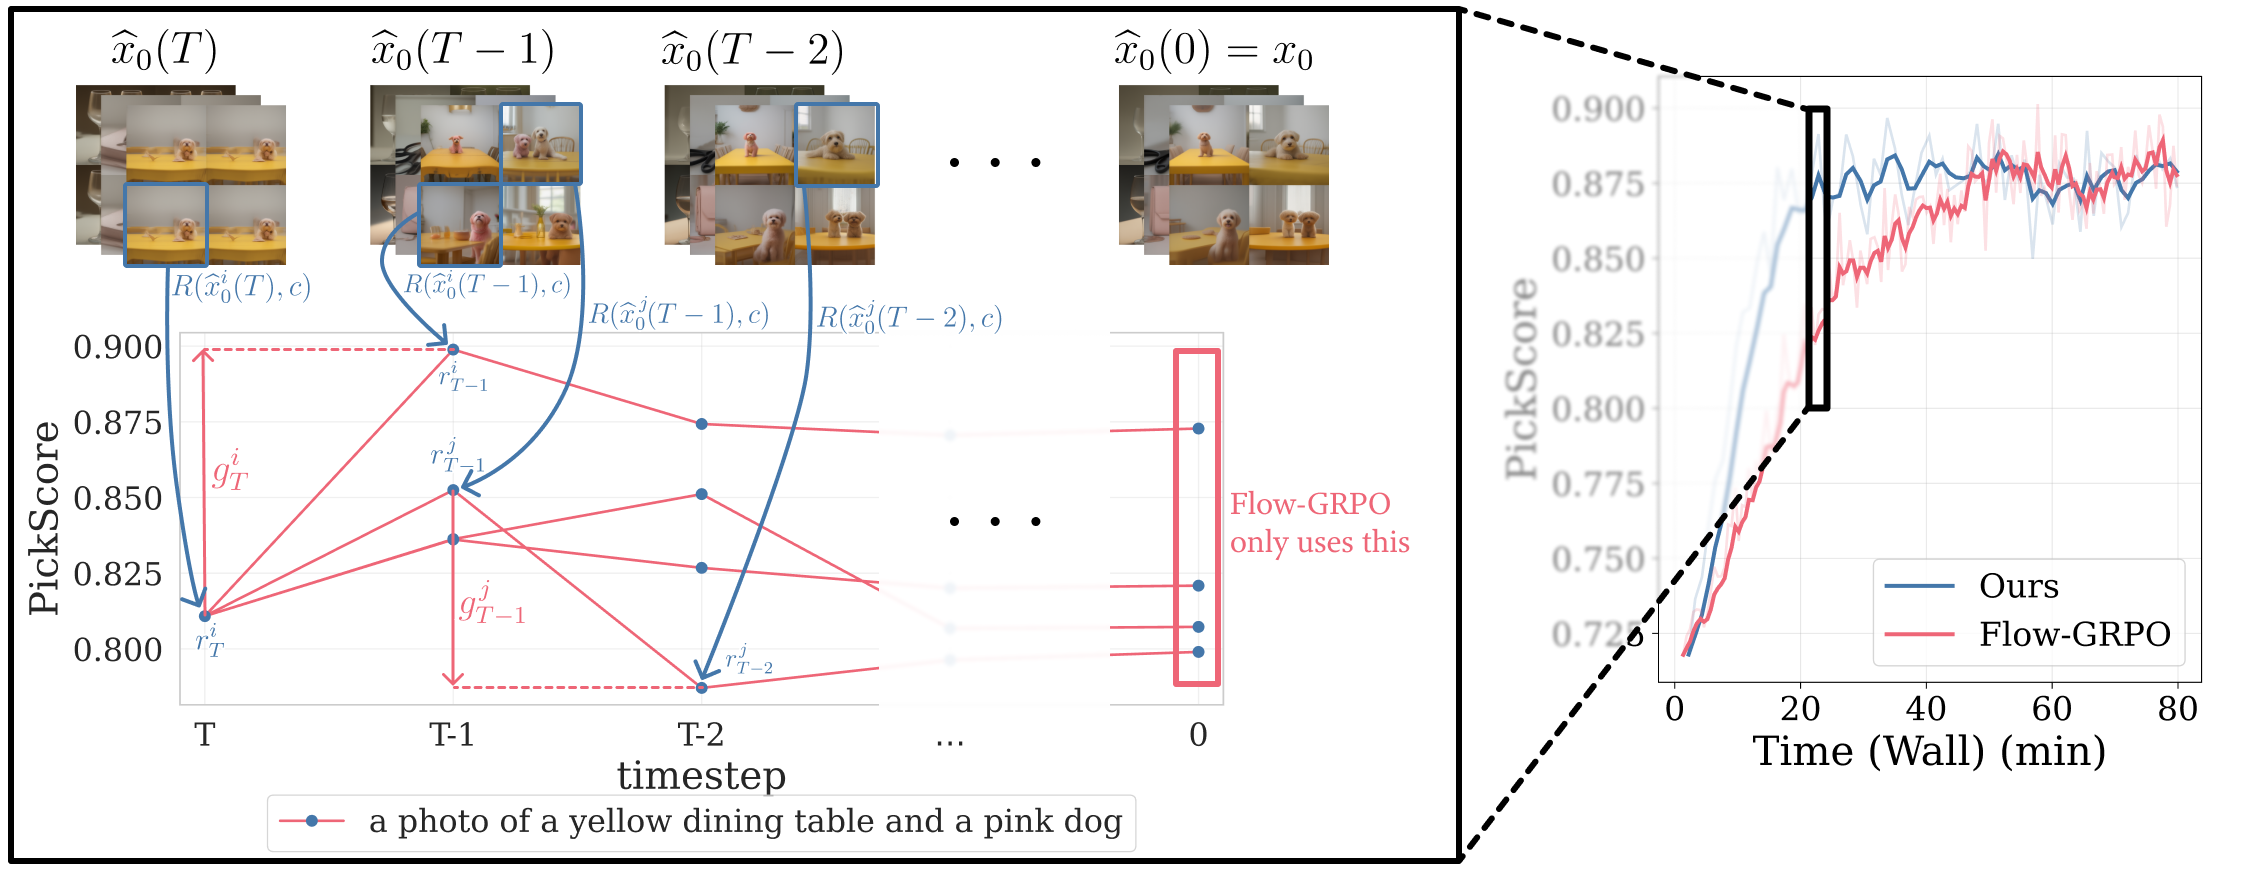
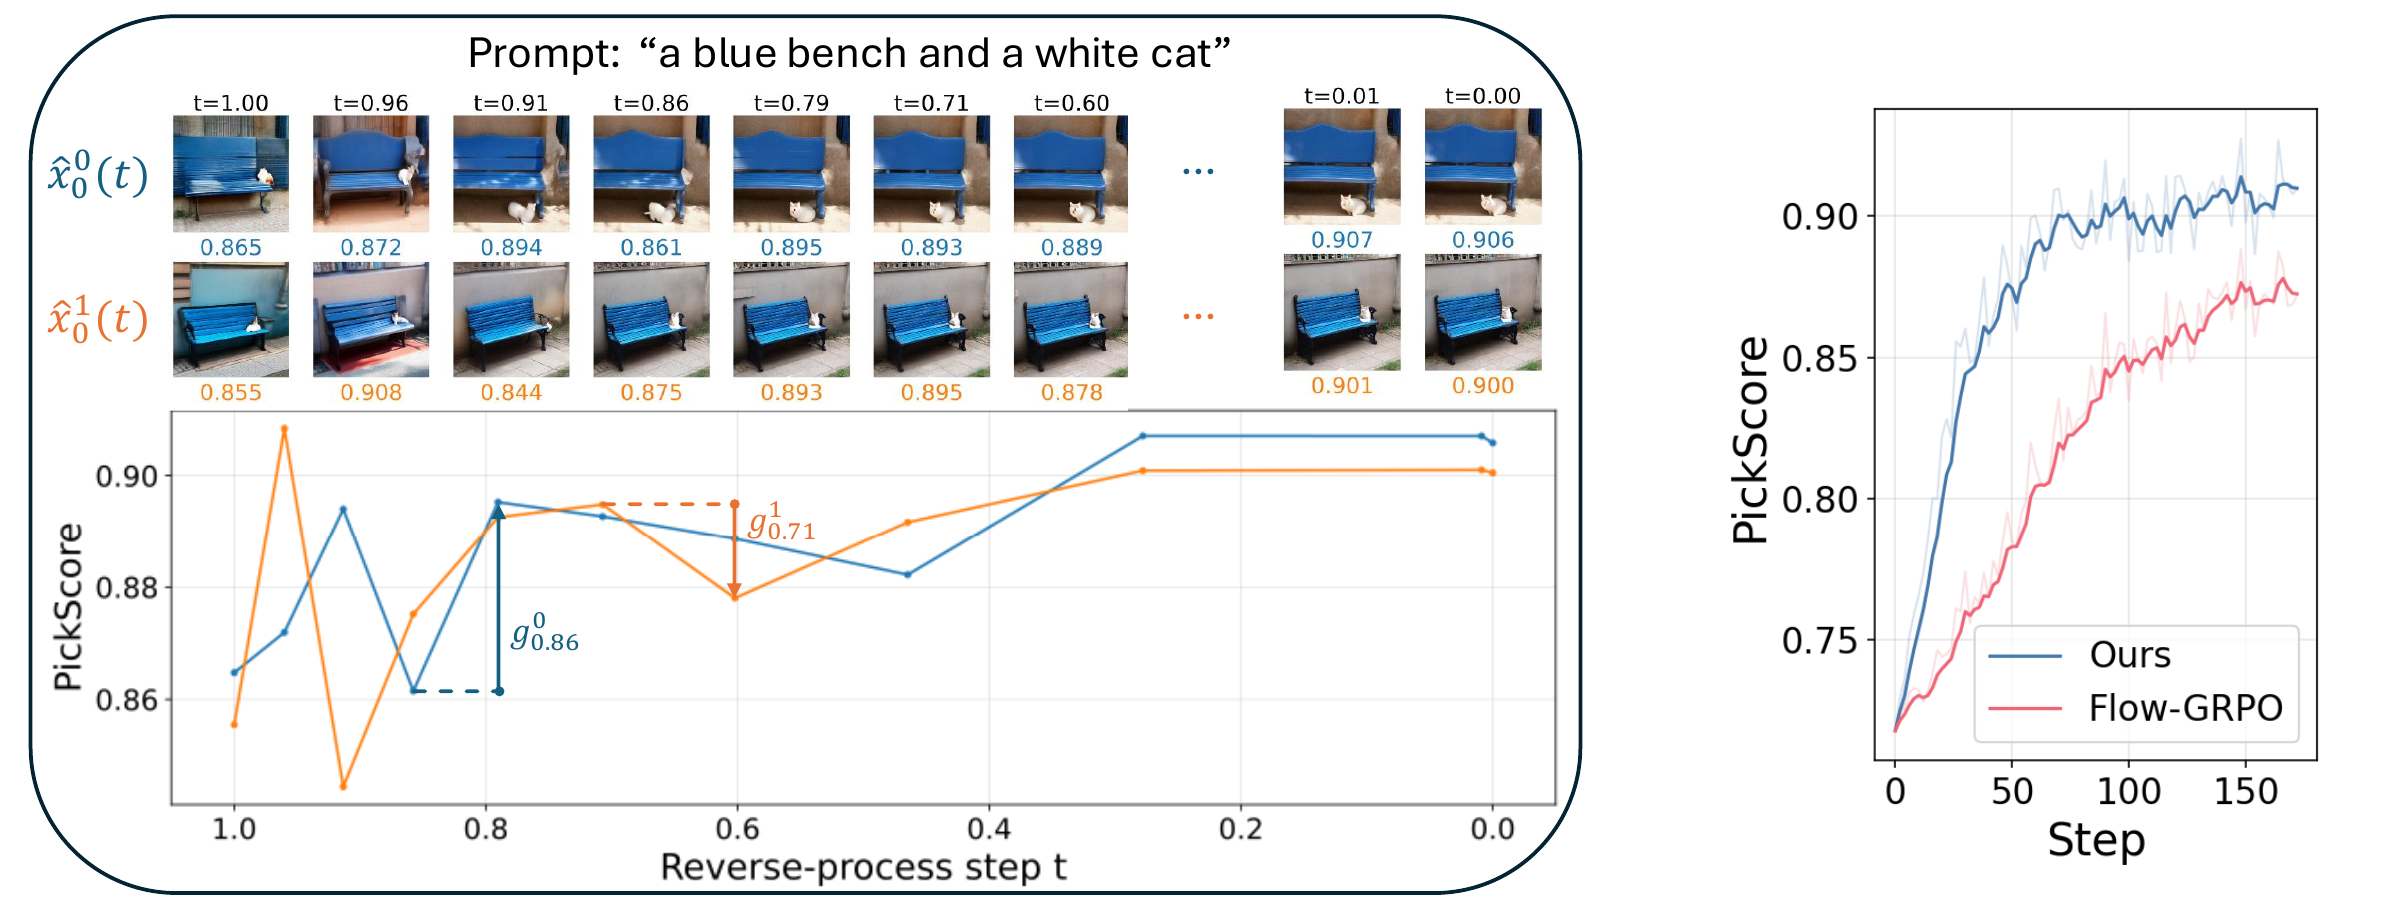
Refine stepwise Flow-GRPO blog figures

diff --git a/website/content/2026/stepwise-flow-grpo.md b/website/content/2026/stepwise-flow-grpo.md
@@ -20,13 +20,13 @@ The current state of the art, [Flow-GRPO](https://arxiv.org/abs/2505.05470), sid
 
 This blog post describes our recent work, [_Stepwise Credit Assignment for GRPO on Flow Matching Models_](https://stepwiseflowgrpo.com), which proposes a fix.
 
-## TL; DR
+## TL;DR
 
 - **Problem.** Flow-GRPO assigns the same advantage to every denoising step in a trajectory, ignoring that early steps determine composition while late steps refine details. A trajectory with bad early decisions that get corrected later is reinforced just as strongly as one with good decisions throughout.
 - **Stepwise rewards via Tweedie.** We score every denoising step by applying the reward model to a few-step Tweedie estimate \\(\hat{x}\_{0}(t) = \mathbb{E}[x\_{0} \mid x\_{t}]\\) of the clean image. This is essentially free since \\(\hat{x}\_{0}(t)\\) reuses the predicted noise that the flow model already computes at every step.
 - **Stepwise gains, not raw rewards.** We optimize the per-step gain \\(g\_{t} = r\_{t-1} - r\_{t}\\). The gains telescope to the total reward improvement, so we get fine-grained credit assignment without changing the global objective.
 - **Improved SDE.** Flow-GRPO's SDE inadvertently injects extra noise at every step, leaving final samples noisy and degrading the reward signal. We replace it with a DDIM-inspired alternative that does not add unintended noise and recovers the flow ODE in the appropriate limits.
-- **Results.** **Stepwise-Flow-GRPO has better sample efficiency than Flow-GRPO**, in both training iterations and wall-clock time, across three reward models (PickScore, ImageReward, UnifiedReward) on two datasets. The improved SDE accelerates *both* methods, and combining the two changes gives the best results overall. Stepwise-Flow-GRPO also trains stably where Flow-GRPO diverges, including on the 7B UnifiedReward VLM and on OCR text rendering.
+- **Results.** **Stepwise-Flow-GRPO has better sample efficiency than Flow-GRPO**, in both training iterations and wall-clock time, across three reward models (PickScore, ImageReward, UnifiedReward) on two prompt sets. The improved SDE accelerates *both* methods, and combining the two changes gives the best results overall. Stepwise-Flow-GRPO also trains stably where Flow-GRPO diverges, including on the 7B UnifiedReward VLM and on OCR text rendering.
 
 ![Two trajectories from the same prompt have similar final rewards but very different intermediate behavior. Trajectory 0 dips at t=0.86 before recovering, and trajectory 1 drops sharply at t=0.71. Uniform credit assignment treats them identically.](./figure1-motivation.png)
 
@@ -52,7 +52,7 @@ To generate an image, we start from pure noise \\(x\_{1} \sim \mathcal{N}(0, I)\
 
 The deterministic ODE works fine for inference, but it is not suitable for reinforcement learning. RL needs to explore: from the same prompt and same initial noise, we need the model to produce *different* trajectories that we can reward differently and compare against each other. A deterministic process produces one trajectory per starting point, so there is nothing to compare.
 
-Following [Flow-GRPO](https://arxiv.org/abs/2505.05470), we replace the deterministic ODE with a stochastic differential equation (SDE) that injects a small amount of noise at each step. The SDE is carefully constructed so that, at every time \\(t\\), its distribution over \\(x\_{t}\\) matches the original ODE. This *marginal-preserving* property is important: it means that optimizing the SDE policy also improves the deterministic ODE we use at inference. After discretization, each denoising step becomes a draw from a Gaussian:
+Following [Flow-GRPO](https://arxiv.org/abs/2505.05470), we replace the deterministic ODE with a stochastic differential equation (SDE) that injects a small amount of noise at each step. The SDE is carefully constructed so that, at every time \\(t\\), its distribution over \\(x\_{t}\\) matches the original ODE. This *marginal-preserving* property is important: it keeps RL training aligned with the deterministic ODE we use at inference, rather than optimizing a sampler with a different sequence of intermediate distributions. After discretization, each denoising step becomes a draw from a Gaussian:
 
 \\[ \pi\_{\theta}(x\_{t-\Delta t} \mid x\_{t}, c) = \mathcal{N}(x\_{t-\Delta t};\ \mu\_{t},\ \sigma\_{t}^{2} \Delta t \cdot I) \\]
 
@@ -152,12 +152,14 @@ for i in range(N):
     x[i, T] = x_T
     for t in range(T-1, -1, -1):
         x[i, t] ~ pi_theta( . | x[i, t+1], c)               # SDE step
-    for t in range(T):
+    for t in range(T + 1):
         x_hat_0[i, t] = denoise(x[i, t], substeps=T_prime)  # Tweedie estimate
         r[i, t]       = R(x_hat_0[i, t], c)                 # reward at step t
 
-# Stepwise gains
-g[i, t] = r[i, t-1] - r[i, t]
+# Stepwise gains for t = 1, ..., T
+for i in range(N):
+    for t in range(1, T + 1):
+        g[i, t] = r[i, t-1] - r[i, t]
 
 # Joint normalization across all i, t
 A_tilde = (g - mean(g)) / std(g)
@@ -176,11 +178,11 @@ There is a separate issue with Flow-GRPO that we noticed while developing stepwi
 
 The new update rule interpolates between deterministic and stochastic sampling:
 
-\\[ x\_{t-\Delta t} = (1 - (t-\Delta t)) \hat{x}\_{0}(t) + \sqrt{(t-\Delta t)^{2} - \sigma\_{t}^{2}} \, \hat{x}\_{1} + \sigma\_{t} \epsilon \\]
+\\[ x\_{t-\Delta t} = (1 - (t-\Delta t)) \hat{x}\_{0}(t) + \sqrt{(t-\Delta t)^{2} - \sigma\_{t}^{2}} \hat{x}\_{1} + \sigma\_{t} \epsilon \\]
 
 This formulation is designed around two properties. First, setting \\(\sigma\_{t} = 0\\) zeroes out the noise term and recovers the deterministic flow ODE exactly, so we can dial in the amount of stochasticity we want for RL training. Second, the noise injected at each step is calibrated to match the noise level that rectified flow assigns to that timestep, so intermediate samples stay on the trajectory the model was trained to denoise rather than drifting off it.
 
-There is a tradeoff. Marginal matching to the flow ODE (the property that Flow-GRPO's SDE achieves exactly) only holds for our SDE in the Taylor limit of small \\(\sigma\_{t}\\). For the small \\(\sigma\_{t}\\) we use in practice, the approximation is tight enough that optimizing the SDE still improves the ODE we use at inference. The paper has the precise statements.
+There is a tradeoff. Marginal matching to the flow ODE (the property that Flow-GRPO's SDE achieves exactly) only holds for our SDE in the Taylor limit of small \\(\sigma\_{t}\\). For the small \\(\sigma\_{t}\\) we use in practice, the approximation is tight enough that the SDE remains a useful training surrogate for the ODE sampler we use at inference. The paper gives the formal Taylor-limit argument and variance calculation.
 
 ![Qualitative comparison of final images sampled with each SDE. Flow-GRPO's SDE produces visibly noisy results, while our DDIM-inspired SDE produces clean images while still injecting enough stochasticity for policy gradients.](./figure8-improved-sde.png)
 
@@ -196,7 +198,7 @@ We trained Stable Diffusion 3.5-Medium with both methods using three reward mode
 
 Figure 4 shows reward against training step for each reward-prompt combination. The headline finding is that Stepwise-Flow-GRPO reaches any given reward level in substantially fewer training steps than Flow-GRPO; the gap is largest early in training. This is the main result of the paper. The picture is the same in wall-clock time (the paper has the plot), though the gap there is less dramatic since each Stepwise-Flow-GRPO iteration costs more (it runs the reward model on \\(T\\) Tweedie estimates per trajectory instead of just one).
 
-![Reward versus training step for Stepwise-Flow-GRPO and Flow-GRPO across four settings: PickScore on GenEval, ImageReward on GenEval, UnifiedReward on GenEval, and PickScore on the PickScore dataset.](./figure4-sample-efficiency.png)
+![Reward versus training step for Stepwise-Flow-GRPO and Flow-GRPO across four settings: PickScore on GenEval, ImageReward on GenEval, UnifiedReward on GenEval, and PickScore on the PickScore prompt set.](./figure4-sample-efficiency.png)
 
 **Figure 4.** Reward versus training step for Stepwise-Flow-GRPO (blue) and Flow-GRPO (red). The top row and bottom-left panel use GenEval prompts with PickScore, ImageReward, and UnifiedReward respectively; the bottom-right panel uses PickScore prompts with PickScore as the reward.
 
@@ -204,9 +206,9 @@ Figure 4 shows reward against training step for each reward-prompt combination. 
 
 Swapping the SDE is an independent intervention, so we ran the full 2x2: Flow-GRPO and Stepwise-Flow-GRPO, each with the original Flow-GRPO SDE and with our DDIM-inspired SDE.
 
-![Reward versus training step for four conditions: Flow-GRPO and Stepwise-Flow-GRPO, each with the original Flow-GRPO SDE and with the improved DDIM-inspired SDE. Both methods improve with the new SDE, and Stepwise-Flow-GRPO with the improved SDE is best.](./figure6-improved-sde-results.png)
+![Reward versus training step for Flow-GRPO and Stepwise-Flow-GRPO under the original Flow-GRPO SDE and the improved DDIM-inspired SDE across four reward-prompt settings.](./figure5-improved-sde-results.png)
 
-**Figure 5.** The 2x2 comparison. Both methods improve when we swap in the DDIM-inspired SDE, and Stepwise-Flow-GRPO retains its lead in both SDE regimes. The credit-assignment fix and the sampling fix are doing different work.
+**Figure 5.** The 2x2 comparison, repeated across reward-prompt settings. Each row fixes the reward model and prompt source; the left column uses the original Flow-GRPO SDE, and the right column uses the DDIM-inspired SDE. Both methods improve when we swap in the DDIM-inspired SDE, and Stepwise-Flow-GRPO retains its lead in both SDE regimes. The credit-assignment fix and the sampling fix are doing different work.
 
 ### Stability
 
